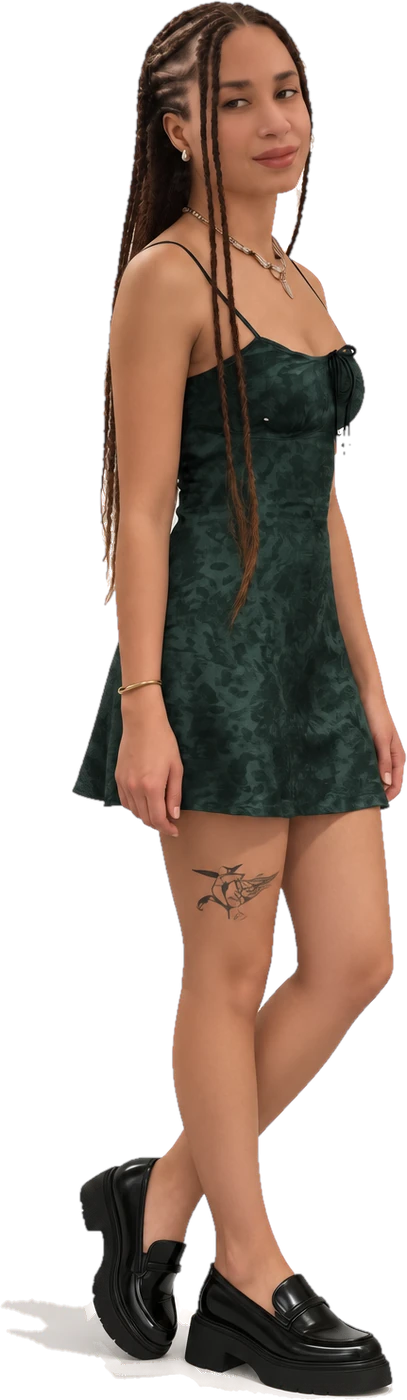
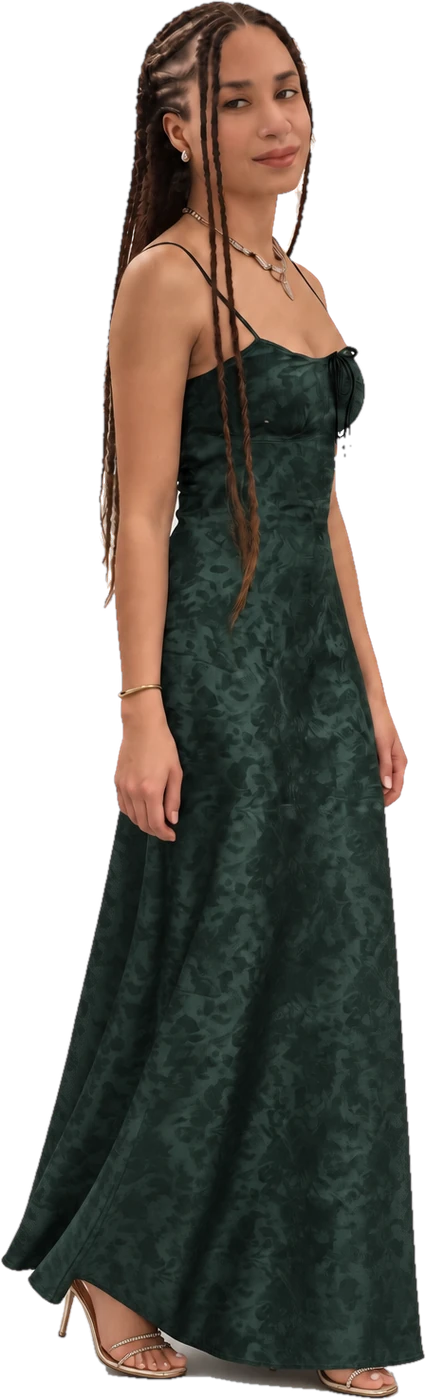
feat(character): update outfit

diff --git a/src/palais/CharacterCatalog.tsx b/src/palais/CharacterCatalog.tsx
@@ -132,8 +132,8 @@ const CAST: Character[] = [
     id: "stephanie",
     name: "Stephanie",
     tag: "friend of the Palais",
-    blurb: "Stephanie, turned to one side in a dark green satin slip dress, long braids over her shoulder and a small smile.",
-    notes: ["A dark green satin slip dress", "Long braids past her waist", "A gold chain necklace and a gold bangle", "Chunky black loafers"],
+    blurb: "Stephanie, turned half toward you in a long emerald jacquard gown, her braids falling past her waist and a knowing little smile.",
+    notes: ["An emerald floral jacquard maxi dress with a tie front", "Long braids past her waist", "A silver pendant necklace and a gold cuff", "Gold strappy heeled sandals"],
     color: "#2f6b5a",
     face: 0.08,
     sticker: "character_stephanie_sticker",
